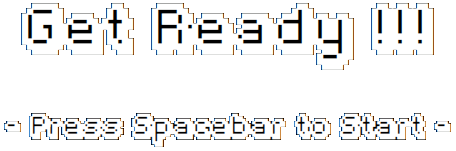
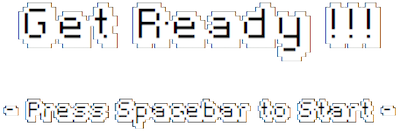
Fix get ready screen

diff --git a/dist/main.js b/dist/main.js
@@ -94,7 +94,7 @@
 /***/ (function(module, __webpack_exports__, __webpack_require__) {
 
 "use strict";
-eval("__webpack_require__.r(__webpack_exports__);\n/* harmony export (binding) */ __webpack_require__.d(__webpack_exports__, \"default\", function() { return TurnItDown; });\n/* harmony import */ var _player__WEBPACK_IMPORTED_MODULE_0__ = __webpack_require__(/*! ./player */ \"./src/player.js\");\n/* harmony import */ var _platform__WEBPACK_IMPORTED_MODULE_1__ = __webpack_require__(/*! ./platform */ \"./src/platform.js\");\n\n\n\nclass TurnItDown { \n    constructor(canvas) {\n        this.ctx = canvas.getContext(\"2d\");\n        this.dimensions = { width: canvas.width, height: canvas.height };\n\n        this.background = new Image();\n        this.background.src = \"img/background.png\";\n        this.ready = new Image();\n        this.ready.src = \"img/ready.png\";\n        this.over = new Image();\n        this.over.src = \"img/over.png\";\n        this.retry = new Image();\n        this.retry.src = \"img/retry.png\";\n\n\n        this.music = new Audio();\n        this.music.src = \"audio/sunflower.mp3\";\n        this.x = 0;\n        this.y = 600;\n\n        this.animate = this.animate.bind(this);\n\n        window.addEventListener(\"keydown\", this.key.bind(this));\n        window.addEventListener(\"keyup\", this.keyUp.bind(this));\n        // window.addEventListener(\"click\", this.click.bind(this));\n\n        this.state = {\n            current: 0,\n            getReady: 0,\n            game: 1,\n            over: 2\n        }\n\n        this.restart();\n    }\n    \n    start(){\n        switch(this.state.current){\n            case this.state.getReady:\n                this.state.current = this.state.game;\n                this.music.play();\n                break;\n            case this.state.over:\n                this.restart();\n                break;\n        }\n    }\n\n    key(e) {\n        if (this.state.current === this.state.game) {\n            if (e.keyCode === 38) this.player.jump();\n            if (e.keyCode === 37) this.player.left = true;\n            if (e.keyCode === 39) this.player.right = true;\n            if (e.keyCode === 32) this.player.duck();\n        } else {\n            if (e.keyCode === 32) this.start();\n        }\n    }\n\n    keyUp(e) {\n        if (this.state.current === this.state.game) {\n            if (e.keyCode === 37) this.player.left = false;\n            if (e.keyCode === 39) this.player.right = false;\n        }\n    }\n    \n    restart() {\n        this.state.current = this.state.getReady;\n        this.platform = new _platform__WEBPACK_IMPORTED_MODULE_1__[\"default\"](this.dimensions);\n        this.player = new _player__WEBPACK_IMPORTED_MODULE_0__[\"default\"](this.dimensions, this.platform, this.music);\n\n        this.animate();\n    }\n\n    animate(){\n        this.backgroundDraw();\n        this.platform.animate(this.ctx);\n        this.player.animate(this.ctx);\n        if (this.gameOver()) {\n            this.ctx.clearRect(0, 0, this.dimensions.width, this.dimensions.height);\n            this.ctx.drawImage(this.over, 0, 0, 250, 134, this.dimensions.width / 4, this.dimensions.height / 6, 250, 134);\n            this.ctx.drawImage(this.retry, 0, 0, 400, 34, 45, this.dimensions.height / 2, 400, 34);\n        } else {\n            if (this.state.current === this.state.game) {\n                this.frame = requestAnimationFrame(this.animate);\n            } else if (this.state.current === this.state.over) {\n                this.ctx.clearRect(0, 0, 480, 640);\n                // this.ctx.drawImage(this.over, 0, 0, 250, 134, this.dimensions.width / 5, this.dimensions.height / 6, 250, 134);\n                this.frame = requestAnimationFrame(this.animate);\n            } else if (this.state.current === this.state.getReady) {\n                this.ctx.clearRect(0, 0, 480, 640);\n                this.ctx.drawImage(this.background, 0, 0, 233, 111, this.dimensions.width / 4, this.dimensions.height / 2, 233, 111);\n                this.frame = requestAnimationFrame(this.animate);\n            }\n        }    \n    }\n        \n    backgroundDraw(){\n        this.ctx.drawImage(this.background, this.x, this.y, 480, 640, 0, 0, 480, 640);\n        if (this.y < 0) this.y += (2400-640);\n\n        //background scroll\n        this.y -= 0.2;\n    }\n\n    gameOver(){\n        if (this.player.y >= this.dimensions.height) {\n            this.state.current = this.state.over;\n            this.music.pause();\n            this.music.currentTime = 0;\n            return true;\n        } \n        return false;\n    }\n\n}\n\n\n\n//# sourceURL=webpack:///./src/game.js?");
+eval("__webpack_require__.r(__webpack_exports__);\n/* harmony export (binding) */ __webpack_require__.d(__webpack_exports__, \"default\", function() { return TurnItDown; });\n/* harmony import */ var _player__WEBPACK_IMPORTED_MODULE_0__ = __webpack_require__(/*! ./player */ \"./src/player.js\");\n/* harmony import */ var _platform__WEBPACK_IMPORTED_MODULE_1__ = __webpack_require__(/*! ./platform */ \"./src/platform.js\");\n\n\n\nclass TurnItDown { \n    constructor(canvas) {\n        this.ctx = canvas.getContext(\"2d\");\n        this.dimensions = { width: canvas.width, height: canvas.height };\n\n        this.background = new Image();\n        this.background.src = \"img/background.png\";\n        this.ready = new Image();\n        this.ready.src = \"img/ready.png\";\n        this.over = new Image();\n        this.over.src = \"img/over.png\";\n        this.retry = new Image();\n        this.retry.src = \"img/retry.png\";\n\n\n        this.music = new Audio();\n        this.music.src = \"audio/sunflower.mp3\";\n        this.x = 0;\n        this.y = 600;\n\n        this.animate = this.animate.bind(this);\n\n        window.addEventListener(\"keydown\", this.key.bind(this));\n        window.addEventListener(\"keyup\", this.keyUp.bind(this));\n        // window.addEventListener(\"click\", this.click.bind(this));\n\n        this.state = {\n            current: 0,\n            getReady: 0,\n            game: 1,\n            over: 2\n        }\n\n        this.restart();\n    }\n    \n    start(){\n        switch(this.state.current){\n            case this.state.getReady:\n                this.state.current = this.state.game;\n                this.music.play();\n                break;\n            case this.state.over:\n                this.restart();\n                break;\n        }\n    }\n\n    key(e) {\n        if (this.state.current === this.state.game) {\n            if (e.keyCode === 38) this.player.jump();\n            if (e.keyCode === 37) this.player.left = true;\n            if (e.keyCode === 39) this.player.right = true;\n            if (e.keyCode === 32) this.player.duck();\n        } else {\n            if (e.keyCode === 32) this.start();\n        }\n    }\n\n    keyUp(e) {\n        if (this.state.current === this.state.game) {\n            if (e.keyCode === 37) this.player.left = false;\n            if (e.keyCode === 39) this.player.right = false;\n        }\n    }\n    \n    restart() {\n        this.state.current = this.state.getReady;\n        this.platform = new _platform__WEBPACK_IMPORTED_MODULE_1__[\"default\"](this.dimensions);\n        this.player = new _player__WEBPACK_IMPORTED_MODULE_0__[\"default\"](this.dimensions, this.platform, this.music);\n\n        this.animate();\n    }\n\n    animate(){\n        this.backgroundDraw();\n        this.platform.animate(this.ctx);\n        this.player.animate(this.ctx);\n        if (this.gameOver()) {\n            this.ctx.clearRect(0, 0, this.dimensions.width, this.dimensions.height);\n            this.ctx.drawImage(this.over, 0, 0, 250, 134, this.dimensions.width / 4, this.dimensions.height / 6, 250, 134);\n            this.ctx.drawImage(this.retry, 0, 0, 400, 34, 45, this.dimensions.height / 2, 400, 34);\n        } else {\n            if (this.state.current === this.state.game) {\n                this.frame = requestAnimationFrame(this.animate);\n            } else if (this.state.current === this.state.over) {\n                this.ctx.clearRect(0, 0, 480, 640);\n                // this.ctx.drawImage(this.over, 0, 0, 250, 134, this.dimensions.width / 5, this.dimensions.height / 6, 250, 134);\n                this.frame = requestAnimationFrame(this.animate);\n            } else if (this.state.current === this.state.getReady) {\n                this.ctx.clearRect(0, 0, 480, 640);\n                this.ctx.drawImage(this.ready, 0, 0, 400, 132, 45, this.dimensions.height / 4, 400, 132);\n                this.frame = requestAnimationFrame(this.animate);\n            }\n        }    \n    }\n        \n    backgroundDraw(){\n        this.ctx.drawImage(this.background, this.x, this.y, 480, 640, 0, 0, 480, 640);\n        if (this.y < 0) this.y += (2400-640);\n\n        //background scroll\n        this.y -= 0.2;\n    }\n\n    gameOver(){\n        if (this.player.y >= this.dimensions.height) {\n            this.state.current = this.state.over;\n            this.music.pause();\n            this.music.currentTime = 0;\n            return true;\n        } \n        return false;\n    }\n\n}\n\n\n\n//# sourceURL=webpack:///./src/game.js?");
 
 /***/ }),
 

diff --git a/src/game.js b/src/game.js
@@ -92,7 +92,7 @@ export default class TurnItDown {
                 this.frame = requestAnimationFrame(this.animate);
             } else if (this.state.current === this.state.getReady) {
                 this.ctx.clearRect(0, 0, 480, 640);
-                this.ctx.drawImage(this.background, 0, 0, 233, 111, this.dimensions.width / 4, this.dimensions.height / 2, 233, 111);
+                this.ctx.drawImage(this.ready, 0, 0, 400, 132, 45, this.dimensions.height / 4, 400, 132);
                 this.frame = requestAnimationFrame(this.animate);
             }
         }    
